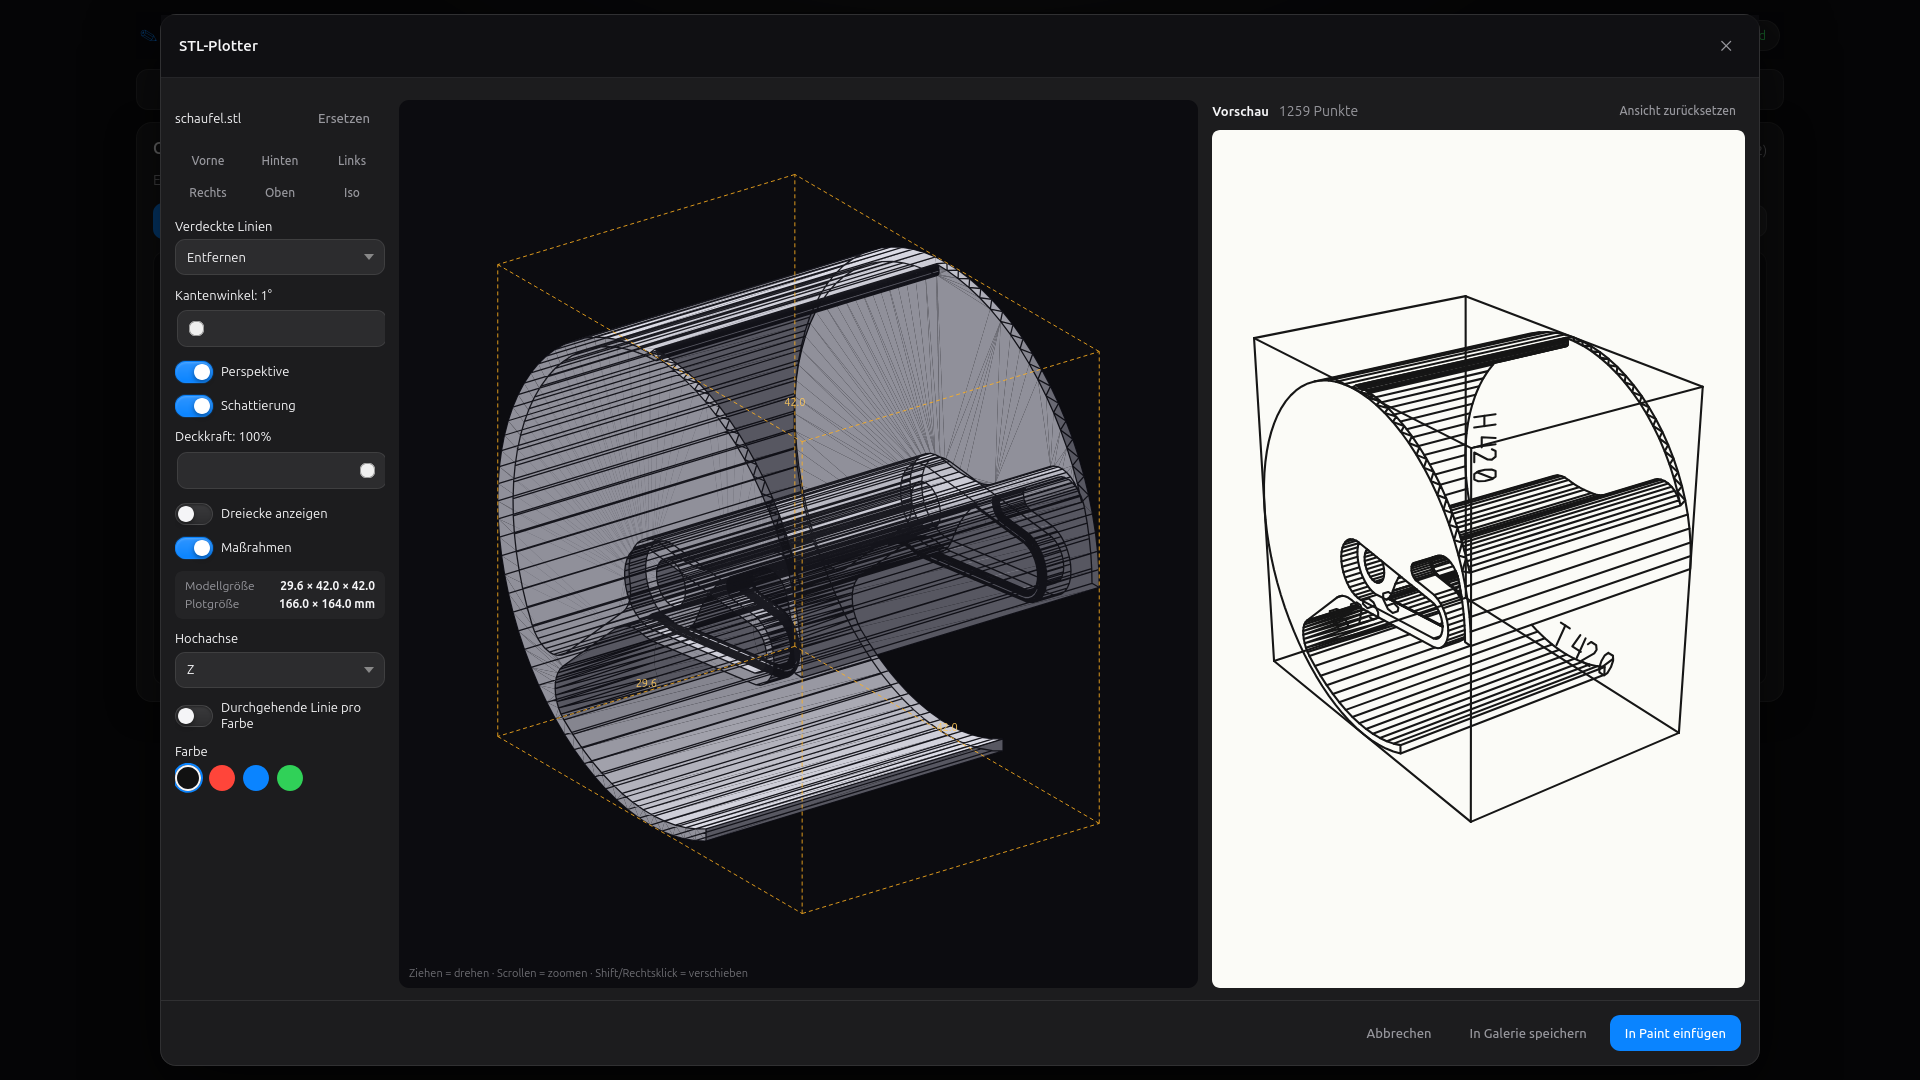
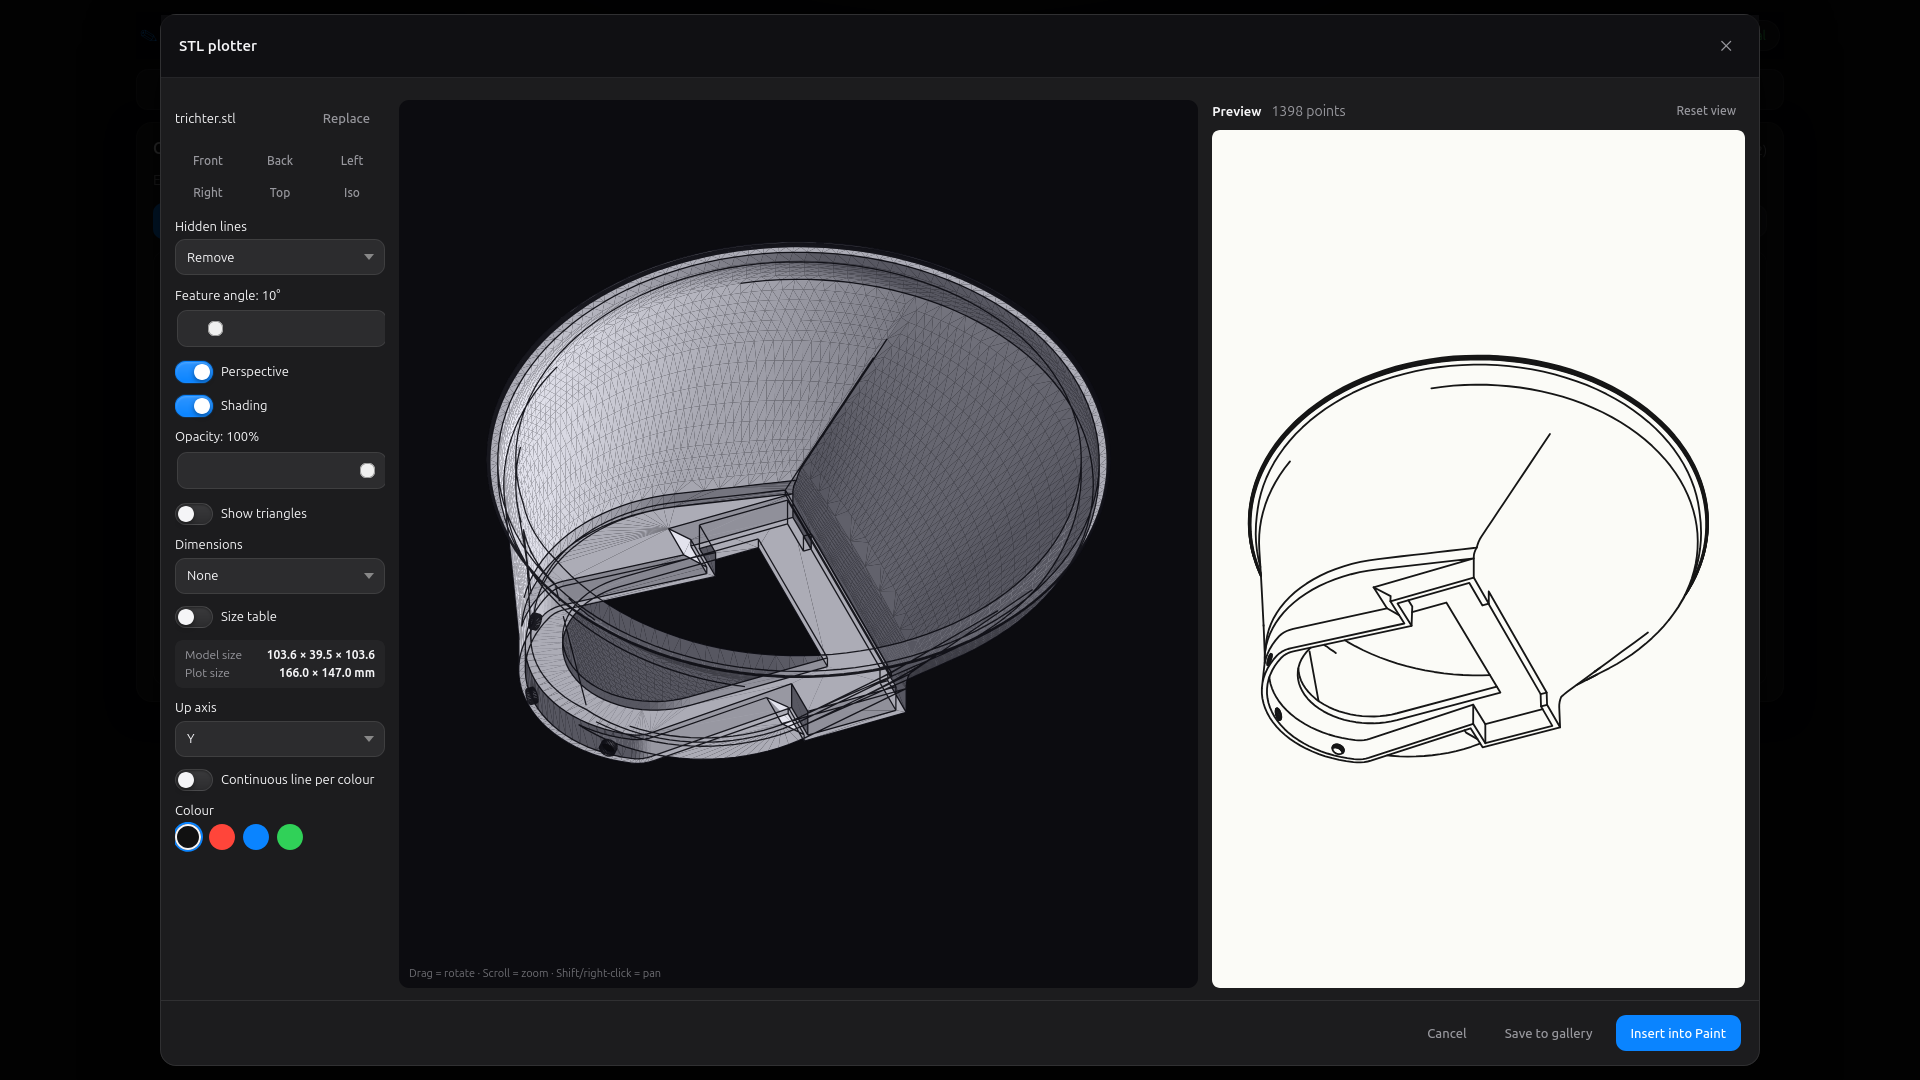
docs(readme): showcase new editor and generator features

diff --git a/README.md b/README.md
@@ -1,9 +1,9 @@
 # GCodeScribe
 
-A browser-based pen-plotter studio for turning PDF, SVG, image, and Office
-documents — plus generated templates, maps, Markdown layouts, and optional
-AI-assisted artwork — into safe G-code for an **Anycubic i3 Mega S**, any
-OctoPrint-backed printer, or a direct USB-serial Marlin setup.
+A browser-based pen-plotter studio for turning PDF, SVG, image, Office and STL
+files — plus generated templates, city maps, Markdown layouts, handwriting
+fonts, and optional AI-assisted artwork — into safe G-code for an **Anycubic i3
+Mega S**, any OctoPrint-backed printer, or a direct USB-serial Marlin setup.
 
 <table>
   <tr>
@@ -13,30 +13,30 @@ OctoPrint-backed printer, or a direct USB-serial Marlin setup.
 </table>
 
 GCodeScribe combines document conversion, an interactive designer, an asset
-gallery, AI image redrawing, OpenStreetMap plotting, browser-side generators,
-live paper calibration, G-code preview, and printer control in one small web
-app. Bring in an existing file or generate something new, place it on the
-virtual bed, preview the mapped toolpaths, and send it to the printer from the
-same interface.
+gallery, AI image redrawing, OpenStreetMap city-road plotting, browser-side
+generators, STL edge projection, handwriting font capture, live paper
+calibration, G-code preview, and printer control in one small web app. Bring in
+an existing file or generate something new, place it on the virtual bed, preview
+the mapped toolpaths, and send it to the printer from the same interface.
 
 ## Highlights
 
 <table>
   <tr>
     <td width="50%"><img src="media/images/ai-designer-preview.png" alt="AI Designer with generated line art and plotter-line preview"></td>
-    <td width="50%"><img src="media/images/galerie-view.png" alt="Gallery view with reusable uploaded and generated assets"></td>
+    <td width="50%"><img src="media/images/stl-editor.png" alt="STL editor projecting a 3D mesh into plotter-ready visible and hidden edge layers"></td>
   </tr>
   <tr>
     <td align="center"><strong>AI Designer</strong></td>
-    <td align="center"><strong>Gallery Asset Library</strong></td>
+    <td align="center"><strong>STL Edge Projection</strong></td>
   </tr>
   <tr>
-    <td width="50%"><img src="media/images/coloring.png" alt="Coloring editor for assigning linework to multiple pen colors"></td>
-    <td width="50%"><img src="media/images/gcode-preview.png" alt="G-code preview mapped onto the printer bed and paper"></td>
+    <td width="50%"><img src="media/images/font-editor-preview.png" alt="Handwriting font editor showing captured glyphs and a writing-test preview"></td>
+    <td width="50%"><img src="media/images/map-designer.png" alt="City road map generator with OpenStreetMap place search and plot preview"></td>
   </tr>
   <tr>
-    <td align="center"><strong>Coloring Editor</strong></td>
-    <td align="center"><strong>G-code Preview</strong></td>
+    <td align="center"><strong>Handwriting Fonts</strong></td>
+    <td align="center"><strong>City Road Maps</strong></td>
   </tr>
 </table>
 
@@ -44,18 +44,36 @@ same interface.
 
 ### Convert, generate & remix
 
+<table>
+  <tr>
+    <td width="50%"><img src="media/images/games-view.png" alt="Generator gallery with puzzles, games, maps and drawing templates"></td>
+    <td width="50%"><img src="media/images/map-designer_editor.png" alt="Map editor previewing continuous road-line G-code and plottability metrics"></td>
+  </tr>
+</table>
+
 - Convert PDF, SVG, raster images, and Office documents into plotter-ready
   G-code with [vpype](https://vpype.readthedocs.io).
 - Trace image-only PDFs and scans with OpenCV while preserving vector paths
   from vector PDFs. Auto mode chooses the best conversion path automatically.
+- Import STL meshes in the browser, orient them in 3D, choose visible/hidden
+  edge rendering, add dimensions or a bounding box, and save the result as a
+  re-editable gallery asset or insert it directly into the designer.
 - Generate printable artwork directly in the browser — no source file needed:
   - **Puzzles:** mazes (classic, masked, hex, polar) and sudoku.
   - **Games:** dots &amp; boxes, tic-tac-toe, meta tic-tac-toe, connect four,
     battleships, bingo, and city/country/river sheets.
   - **Coloring pages:** mandalas and geometric pattern generators.
-  - **Maps:** select a live OpenStreetMap viewport, choose streets, paths,
-    buildings, waterways, water, rail, or transit layers, and turn the result
-    into plotter-ready vector linework.
+  - **Line art generators:** curve morphs and noodle-style path patterns.
+  - **Maps:** search for a city or place, use its OSM boundary when available,
+    and turn the road network into continuous, plotter-friendly vector linework.
+
+<table>
+  <tr>
+    <td width="50%"><img src="media/images/ai-designer-empty.png" alt="AI Designer prompt and image upload screen before generation"></td>
+    <td width="50%"><img src="media/images/galerie-view.png" alt="Gallery view with reusable uploaded and generated assets"></td>
+  </tr>
+</table>
+
 - Use the optional **AI Designer** to turn a text prompt, photo, or sketch into
   plotter-ready black-on-white line art. Tune trace mode, detail, aspect
   ratio, effect, and lettering; create feedback-driven variants; and re-render
@@ -66,7 +84,21 @@ same interface.
   archiving, plottability scores, and one-click reuse or insertion into the
   designer.
 
+<table>
+  <tr>
+    <td width="70%"><img src="media/images/stl-editor.png" alt="STL editor with mesh preview, projection controls and line-layer preview"></td>
+    <td width="30%"><img src="media/images/automaticchickenfeeder-plot.png" alt="Example mechanical STL-derived line drawing prepared for plotting"></td>
+  </tr>
+</table>
+
 ### Design, score & color
+
+<table>
+  <tr>
+    <td width="50%"><img src="media/images/design-and-plot.png" alt="Design and Plot tab with artwork placed on the virtual plot bed"></td>
+    <td width="50%"><img src="media/images/coloring.png" alt="Coloring editor for assigning linework to multiple pen colors"></td>
+  </tr>
+</table>
 
 - Place documents visually in the **Design &amp; Plot** tab: upload to the
   gallery, insert any page onto the bed preview, then drag, rotate, scale,
@@ -75,6 +107,9 @@ same interface.
 - Draw from scratch on the paint canvas: place shapes and text, scale and
   arrange them, cover lower lines with mask rectangles, pan/zoom/rotate the
   canvas view, and turn the result into a plot job.
+- Reduce pen lifts with continuous-stroke plotting: map networks, images and
+  paint pages can be merged into one stroke per connected component, with
+  retraces only on existing lines and a configurable merge tolerance.
 - Lay out plot-friendly notes, cards, and worksheets with the built-in
   Markdown editor, then insert them as vector text into the designer.
 - See plottability feedback before printing: gallery items, AI outputs, and
@@ -83,10 +118,37 @@ same interface.
 - Use the **Coloring Editor** to assign linework to multiple pen colors and
   generate separate G-code jobs per color for pen-swap workflows.
 
+### Fonts & handwriting
+
+<table>
+  <tr>
+    <td width="50%"><img src="media/images/font-editor.png" alt="Font editor with glyph drawing canvas, guide lines and captured characters"></td>
+    <td width="50%"><img src="media/images/font-settings.png" alt="Settings dialog for managing built-in, custom and handwriting fonts"></td>
+  </tr>
+</table>
+
+- Capture your own handwriting in the **Font Editor**: draw glyphs with mouse,
+  touch or pen, use guide lines for baseline/x-height/cap-height, and preview
+  words in the writing-test player before using the font in artwork.
+- Stabilize strokes while drawing or reprocess glyphs afterwards with smoothing,
+  inertia, simplification and endpoint snapping controls.
+- Manage fonts in settings: keep built-in plotter fonts, upload `.otf`/`.ttf`
+  files, import/export `.gcsfont` handwriting backups, and choose whether custom
+  fonts render as normal outlines or plotter-optimized centerlines.
+- Stroke fonts preserve per-point feed information, so handwritten text can be
+  plotted with more natural speed variation instead of a flat feedrate.
+
 ### Calibrate &amp; plot safely
 
+<table>
+  <tr>
+    <td width="50%"><img src="media/images/calibration.png" alt="Calibration profile editor with plot area, feedrate and optimization settings"></td>
+    <td width="50%"><img src="media/images/live-calibration.png" alt="Live paper calibration wizard showing captured paper corners"></td>
+  </tr>
+</table>
+
 - Calibrate pen-up and pen-down Z heights, plot area, origin offsets, margins,
-  and feedrates from the browser.
+  feedrates, and merge tolerance from the browser.
 - Use the live paper calibration wizard to home the machine, jog to sheet
   corners, capture paper bounds, and map every conversion onto the real sheet.
 - Manage multiple calibration profiles (e.g. "A4 portrait", "postcard front
@@ -105,6 +167,13 @@ same interface.
   G-code job.
 
 ### Preview &amp; control
+
+<table>
+  <tr>
+    <td width="50%"><img src="media/images/gcode-preview.png" alt="G-code preview mapped onto the printer bed and calibrated paper"></td>
+    <td width="50%"><img src="media/images/control.png" alt="Printer control tab with backend status, jogging and job controls"></td>
+  </tr>
+</table>
 
 - Preview generated G-code against the bed and calibrated paper before sending
   it to the printer.
@@ -144,9 +213,9 @@ the network; use HTTPS if the controller is exposed beyond a trusted setup.
 > `pdftoppm` and `pdfinfo`; OpenCV does the tracing). For Office documents,
 > add `libreoffice-core` to the runtime stage in the `Dockerfile`.
 
-> OSM map generation uses the public OpenStreetMap tile service in the browser
-> and the public Overpass API from the backend. Keep selected areas small and
-> layer counts reasonable; the backend rejects overly large bounding boxes.
+> OSM map generation uses Nominatim for place search and the public Overpass API
+> from the backend. Boundary mode can request a whole city area; for very large
+> places, reduce detail or pick a smaller search result to keep generation fast.
 
 ### Production
 